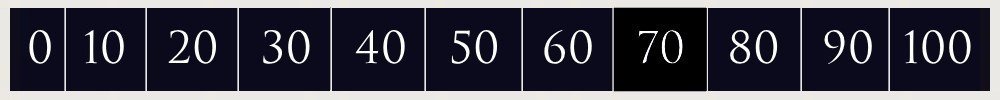
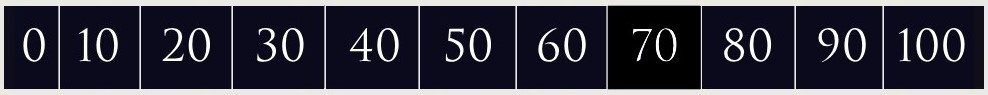
Добавлены сегменты для управления громкостью в меню настроек музыки, улучшена логика обработки кликов по сегментам. Обновлены изображения для различных уровней громкости.

Changed region(s): [[0.0, 0.0421, 1.0, 0.9474]]

diff --git a/Game/UI/music_settings_menu.py b/Game/UI/music_settings_menu.py
@@ -56,9 +56,22 @@ class MusicSettingsMenu(Menu):
         for level in [0, 10, 20, 30, 40, 50, 60, 70, 80, 90, 100]:
             path = f"assets/images/menu/settings/music_change/{level}.jpg"
             self.music_images[level] = load_image(path)
-        # Кнопка music (before, локализованная)
         self.music_btn_img = load_image(config.get_image("MUSIC_SETTINGS_BTN", "before"))
         self.music_btn_img_rus = load_image(config.get_image("MUSIC_SETTINGS_BTN_RUS", "before"))
+        # Ручная разметка сегментов (примерные значения, подправьте под свой ассет)
+        self.music_segments = [
+            {"level": 0,   "x": 460, "y": 490, "width": 65, "height": 100},
+            {"level": 10,  "x": 525, "y": 490, "width": 81, "height": 100},
+            {"level": 20,  "x": 605, "y": 490, "width": 95, "height": 100},
+            {"level": 30,  "x": 698, "y": 490, "width": 95, "height": 100},
+            {"level": 40,  "x": 790, "y": 490, "width": 95, "height": 100},
+            {"level": 50,  "x": 883, "y": 490, "width": 100, "height": 100},
+            {"level": 60,  "x": 980, "y": 490, "width": 94, "height": 100},
+            {"level": 70,  "x": 1070, "y": 490, "width": 98, "height": 100},
+            {"level": 80,  "x": 1166, "y": 490, "width": 96, "height": 100},
+            {"level": 90,  "x": 1260, "y": 490, "width": 91, "height": 100},
+            {"level": 100, "x": 1350, "y": 490, "width": 110, "height": 100},
+        ]
 
     def _create_buttons(self):
         """Создаем кнопки с обработчиками"""
@@ -130,14 +143,10 @@ class MusicSettingsMenu(Menu):
         img = self.default_img
         hovered_level = None
         if mouse_pos and self.default_img:
-            img_rect = self.default_img.get_rect()
-            img_rect.centerx = config.WIDTH // 2
-            img_rect.centery = config.HEIGHT // 2
-            seg_w = img_rect.width // 11
-            for idx, level in enumerate([0,10,20,30,40,50,60,70,80,90,100]):
-                seg_rect = pygame.Rect(img_rect.x + idx*seg_w, img_rect.y, seg_w, img_rect.height)
+            for seg in self.music_segments:
+                seg_rect = pygame.Rect(seg["x"], seg["y"], seg["width"], seg["height"])
                 if seg_rect.collidepoint(mouse_pos):
-                    hovered_level = level
+                    hovered_level = seg["level"]
                     break
         if hovered_level is not None and self.music_images[hovered_level]:
             img = self.music_images[hovered_level]
@@ -146,6 +155,15 @@ class MusicSettingsMenu(Menu):
             img_rect.centerx = config.WIDTH // 2
             img_rect.centery = config.HEIGHT // 2
             surface.blit(img, img_rect)
+            # DEBUG: рисуем сегменты
+            if config.DEBUG_MODE:
+                font = pygame.font.Font(None, 24)
+                for seg in self.music_segments:
+                    seg_rect = pygame.Rect(seg["x"], seg["y"], seg["width"], seg["height"])
+                    pygame.draw.rect(surface, (0,255,0,80), seg_rect, 2)
+                    text = font.render(str(seg["level"]), True, (0,255,0))
+                    text_rect = text.get_rect(center=seg_rect.center)
+                    surface.blit(text, text_rect)
 
     def update(self, dt=1/60):
         pass
@@ -166,18 +184,12 @@ class MusicSettingsMenu(Menu):
 
     def handle_event(self, event, mouse_pos=None):
         if event.type == pygame.MOUSEBUTTONDOWN and event.button == 1:
-            # Проверяем клик по сегменту
-            img = self.default_img
-            if img:
-                img_rect = img.get_rect()
-                img_rect.centerx = config.WIDTH // 2
-                img_rect.centery = config.HEIGHT // 2
-                seg_w = img_rect.width // 11
-                for idx, level in enumerate([0,10,20,30,40,50,60,70,80,90,100]):
-                    seg_rect = pygame.Rect(img_rect.x + idx*seg_w, img_rect.y, seg_w, img_rect.height)
-                    if seg_rect.collidepoint(event.pos):
-                        self.sound_manager.set_music_volume(level / 100.0)
-                        break
+            for seg in self.music_segments:
+                seg_rect = pygame.Rect(seg["x"], seg["y"], seg["width"], seg["height"])
+                if seg_rect.collidepoint(event.pos):
+                    self.sound_manager.set_music_volume(seg["level"] / 100.0)
+                    self.sound_manager.play_sound("button_click")
+                    break
         # Передаём событие кнопке Back
         for button in self.buttons:
             button.handle_event(event, mouse_pos) 
